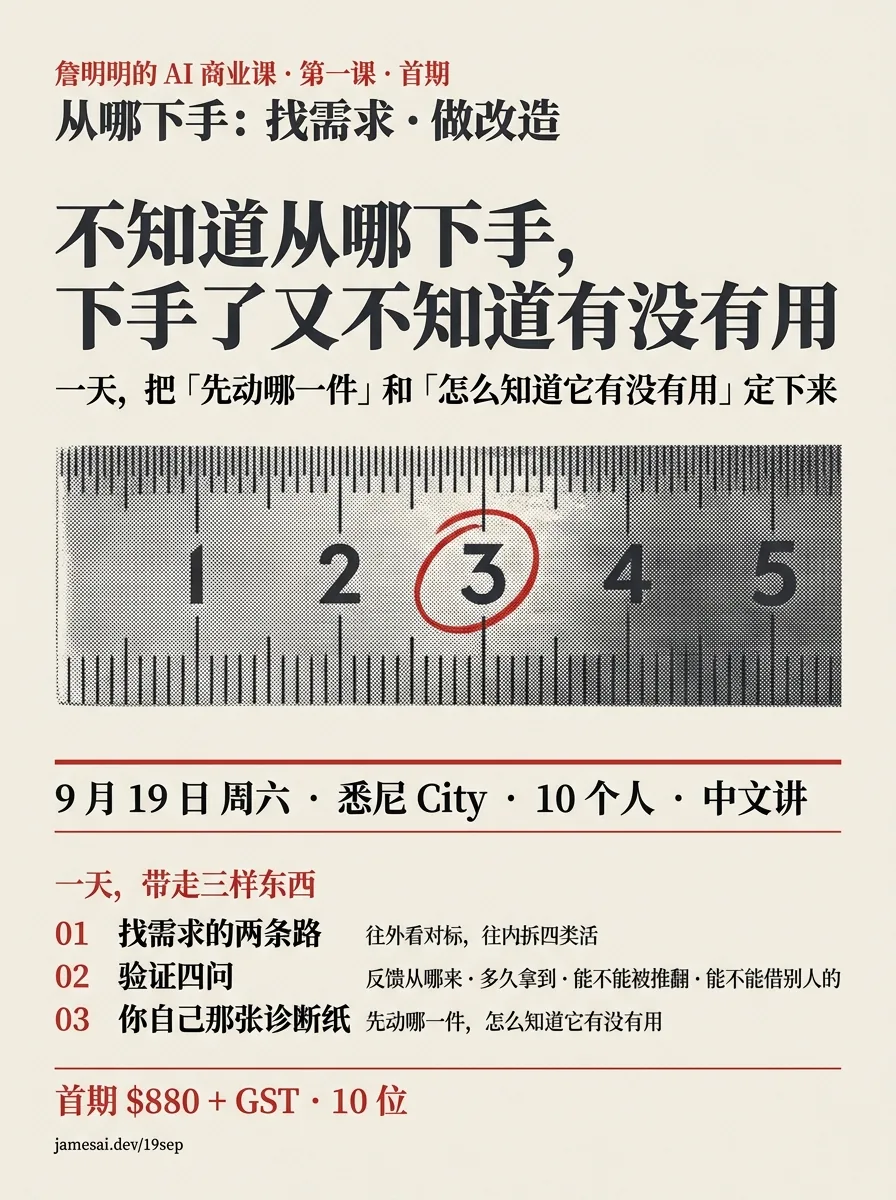
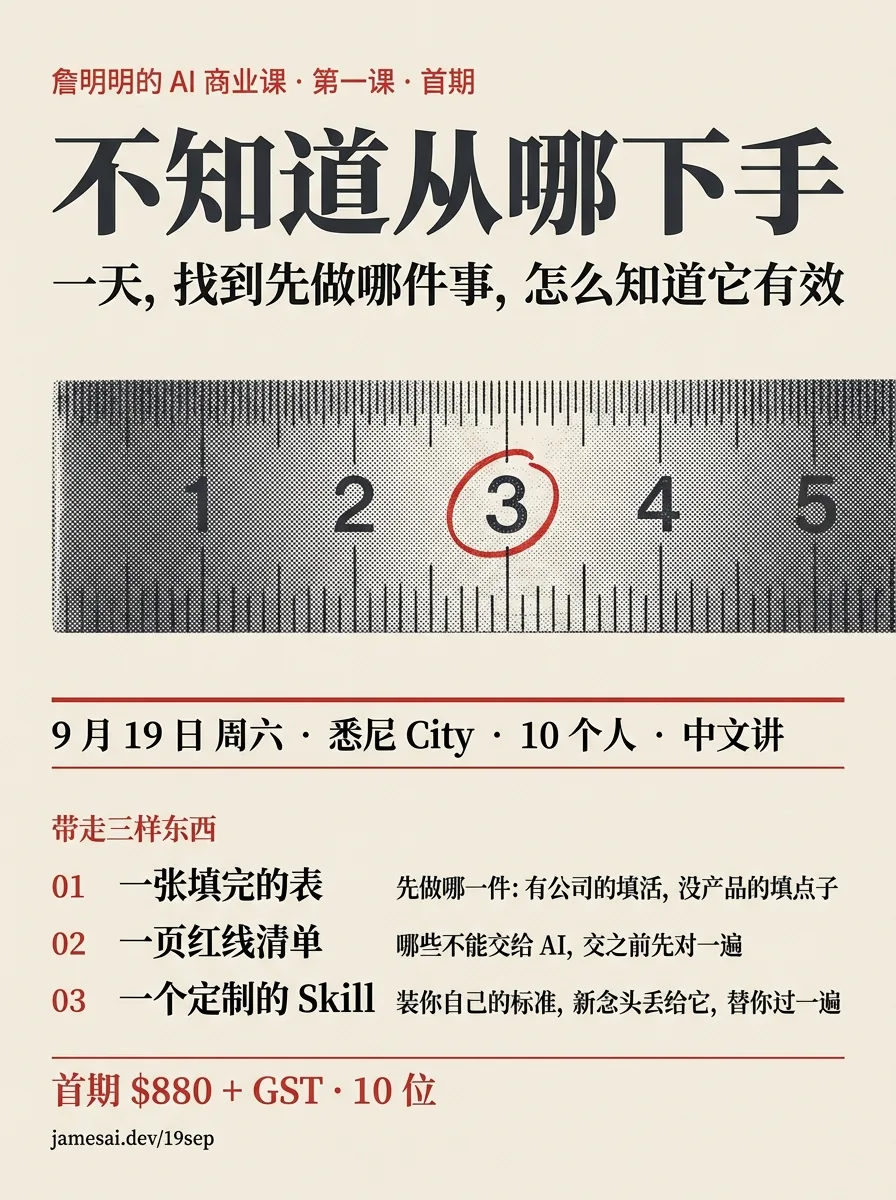
Say the takeaways in words a first-time reader already owns

diff --git a/19sep/index.html b/19sep/index.html
@@ -13,8 +13,8 @@
 <link rel="apple-touch-icon" href="../assets/favicon-180.png">
 <link rel="canonical" href="https://jamesai.dev/19sep/">
 <meta property="og:type" content="website">
-<meta property="og:title" content="不知道从哪下手，下手了又不知道有没有用">
-<meta property="og:description" content="《詹明明的 AI 商业课》第一课 · 从哪下手：找需求 · 做改造 · 9月19日周六 · 悉尼 City · 10 个人">
+<meta property="og:title" content="不知道从哪下手">
+<meta property="og:description" content="《詹明明的 AI 商业课》第一课 · 一天，找到先做哪件事，怎么知道它有效 · 9月19日周六 · 悉尼 City · 10 个人">
 <meta property="og:url" content="https://jamesai.dev/19sep/">
 <meta property="og:image" content="https://jamesai.dev/19sep/poster.png">
 <meta name="twitter:card" content="summary_large_image">
@@ -472,9 +472,9 @@ footer a { color: var(--ink-soft); text-decoration: none; border-bottom: 1px sol
        look bolted on after the restyle. The download and the og:image stay the
        day sheet: that is the one people share. -->
   <a class="poster-link" href="poster.png?v=2"><img class="poster" id="poster"
-       src="poster.webp?v=3" data-day="poster.webp?v=3" data-night="poster-night.webp?v=3"
+       src="poster.webp?v=4" data-day="poster.webp?v=4" data-night="poster-night.webp?v=4"
        width="896" height="1200" fetchpriority="high" decoding="async"
-       alt="詹明明的 AI 商业课 · 第一课 · 首期。从哪下手：找需求 · 做改造。不知道从哪下手，下手了又不知道有没有用。一天，把「先动哪一件」和「怎么知道它有没有用」定下来。9 月 19 日周六，悉尼 City，10 个人，中文讲。一天带走三样东西：找需求的两条路、验证四问、你自己那张诊断纸。首期 $880 + GST，10 位。"></a>
+       alt="詹明明的 AI 商业课 · 第一课 · 首期。不知道从哪下手。一天，找到先做哪件事，怎么知道它有效。9 月 19 日周六，悉尼 City，10 个人，中文讲。带走三样东西：一张填完的表、一页红线清单、一个定制的 Skill。首期 $880 + GST，10 位。"></a>
 
   <section>
     <h2>这是哪一门</h2>
@@ -507,8 +507,8 @@ footer a { color: var(--ink-soft); text-decoration: none; border-bottom: 1px sol
         <span>做产品的人：你既是做的人，又是给自己打分的人。老板：AI 把活干完了，谁来验收，标准是谁定的。这是同一个毛病，只是坐的位置不同。</span>
       </li>
       <li>
-        <b>那把尺子：谁在为它付代价</b>
-        <span>没有人在为它付代价的地方，不是需求。你自己每周花在上面的小时数是代价，别人掏的钱也是代价。<b>两边量的是同一样东西。</b></span>
+        <b>怎么看出哪件值得做</b>
+        <span>没有人在为它付代价的地方，不值得做。你每周花在上面的小时数是代价，别人掏的钱也是代价。<b>两边量的是同一样东西。</b></span>
       </li>
       <li>
         <b>分两桌，半小时，做完互相讲</b>
@@ -527,15 +527,16 @@ footer a { color: var(--ink-soft); text-decoration: none; border-bottom: 1px sol
         <span>先动哪一件，怎么知道它有没有用。</span>
       </li>
     </ol>
-    <p class="soft">有业务的，带上你最近一周真实的活——哪件事花的时间最多。做产品的，带上能当场打开给我看的那个版本。都还没有的，带上你正在考虑的两三个方向。</p>
+    <p class="soft"><b>带电脑。</b>下午要当场做那个 Skill，课前一周我会发一封准备邮件，写清楚装什么、注册什么。<br>
+    另外带上你手上真实的东西：有业务的带最近一周花时间最多的那件活，做产品的带能当场打开的那个版本，都还没有的带你正在考虑的两三个方向。</p>
   </section>
 
   <div class="takeaway">
     <h3>你带走什么</h3>
     <ol>
-      <li><span class="t">找需求的两条路。</span>往外看对标，往内拆四类活。</li>
-      <li><span class="t">验证四问。</span>这把尺子你带得走。</li>
-      <li><span class="t">你自己那张诊断纸。</span>先动哪一件，怎么知道它有没有用。</li>
+      <li><span class="t">一张填完的表。</span>先做哪一件：有公司的填活，没产品的填点子。</li>
+      <li><span class="t">一页红线清单。</span>哪些不能交给 AI，交之前先对一遍。</li>
+      <li><span class="t">一个定制的 Skill。</span>装你自己的标准，以后新念头丢给它，替你过一遍。当天我会用自己的情况从零做一个给大家看，然后各自做各自的。</li>
     </ol>
     <span class="after">还有一样不在清单上：另外九个人的东西被拆开的过程。十个人的场，你只讲一次，听九次——而且有一半人跟你不是同一类，那正是你自己看不到的那半边。</span>
   </div>
